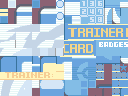
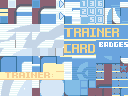
Move Trainer Card barcode

diff --git a/src/trainer_card.c b/src/trainer_card.c
@@ -1229,9 +1229,9 @@ static void PrintIdOnCard(void)
     }
     else if (sData->cardLayout == CARD_LAYOUT_HELIODOR)
     {
-		y = 12;
-        font = 0;
-        x = GetStringCenterAlignXOffset(font, buffer, 80) + 133;
+		y = 9;
+        font = 1;
+        x = GetStringCenterAlignXOffset(font, buffer, 80) + 130;
     }
 	if (sData->cardLayout == CARD_LAYOUT_HELIODOR && (sData->trainerCard.stars + sData->trainerCard.extraStars) > 4)
 		AddTextPrinterParameterized3(1, font, x, y, sTrainerCard5StarIDColors, TEXT_SPEED_FF, buffer);
@@ -1544,53 +1544,53 @@ static void PrintProfilePhraseOnCard(void)
     }
 }
 
-static const u8 sText_BarcodeStart[] = _("{JP_START}");
-static const u8 sText_BarcodeEnd[] = _("{JP_END}");
-static const u8 sText_Barcode0[] = _("{JP_0}");
-static const u8 sText_Barcode1[] = _("{JP_1}");
-static const u8 sText_Barcode2[] = _("{JP_2}");
-static const u8 sText_Barcode3[] = _("{JP_3}");
-static const u8 sText_Barcode4[] = _("{JP_4}");
-static const u8 sText_Barcode5[] = _("{JP_5}");
-static const u8 sText_Barcode6[] = _("{JP_6}");
-static const u8 sText_Barcode7[] = _("{JP_7}");
-static const u8 sText_Barcode8[] = _("{JP_8}");
-static const u8 sText_Barcode9[] = _("{JP_9}");
-static const u8 sText_BarcodeDash[] = _("{JP_DASH}");
-static const u8 sText_BarcodeCC1[] = _("{JP_CC1}");
-static const u8 sText_BarcodeCC2[] = _("{JP_CC2}");
-static const u8 sText_BarcodeCC3[] = _("{JP_CC3}");
+static const u8 sText_BarcodeStart[] = _("{JPV_START}\n");
+static const u8 sText_BarcodeEnd[] = _("{JPV_END}\n");
+static const u8 sText_Barcode0[] = _("{JPV_0}\n");
+static const u8 sText_Barcode1[] = _("{JPV_1}\n");
+static const u8 sText_Barcode2[] = _("{JPV_2}\n");
+static const u8 sText_Barcode3[] = _("{JPV_3}\n");
+static const u8 sText_Barcode4[] = _("{JPV_4}\n");
+static const u8 sText_Barcode5[] = _("{JPV_5}\n");
+static const u8 sText_Barcode6[] = _("{JPV_6}\n");
+static const u8 sText_Barcode7[] = _("{JPV_7}\n");
+static const u8 sText_Barcode8[] = _("{JPV_8}\n");
+static const u8 sText_Barcode9[] = _("{JPV_9}\n");
+static const u8 sText_BarcodeDash[] = _("{JPV_DASH}\n");
+static const u8 sText_BarcodeCC1[] = _("{JPV_CC1}\n");
+static const u8 sText_BarcodeCC2[] = _("{JPV_CC2}\n");
+static const u8 sText_BarcodeCC3[] = _("{JPV_CC3}\n");
 
-static const u8 sText_BarcodeA[] = _("{JP_CC1}{JP_0}");
-static const u8 sText_BarcodeB[] = _("{JP_CC1}{JP_1}");
-static const u8 sText_BarcodeC[] = _("{JP_CC1}{JP_2}");
-static const u8 sText_BarcodeD[] = _("{JP_CC1}{JP_3}");
-static const u8 sText_BarcodeE[] = _("{JP_CC1}{JP_4}");
-static const u8 sText_BarcodeF[] = _("{JP_CC1}{JP_5}");
-static const u8 sText_BarcodeG[] = _("{JP_CC1}{JP_6}");
-static const u8 sText_BarcodeH[] = _("{JP_CC1}{JP_7}");
-static const u8 sText_BarcodeI[] = _("{JP_CC1}{JP_8}");
-static const u8 sText_BarcodeJ[] = _("{JP_CC1}{JP_9}");
-static const u8 sText_BarcodeK[] = _("{JP_CC2}{JP_0}");
-static const u8 sText_BarcodeL[] = _("{JP_CC2}{JP_1}");
-static const u8 sText_BarcodeM[] = _("{JP_CC2}{JP_2}");
-static const u8 sText_BarcodeN[] = _("{JP_CC2}{JP_3}");
-static const u8 sText_BarcodeO[] = _("{JP_CC2}{JP_4}");
-static const u8 sText_BarcodeP[] = _("{JP_CC2}{JP_5}");
-static const u8 sText_BarcodeQ[] = _("{JP_CC2}{JP_6}");
-static const u8 sText_BarcodeR[] = _("{JP_CC2}{JP_7}");
-static const u8 sText_BarcodeS[] = _("{JP_CC2}{JP_8}");
-static const u8 sText_BarcodeT[] = _("{JP_CC2}{JP_9}");
-static const u8 sText_BarcodeU[] = _("{JP_CC3}{JP_0}");
-static const u8 sText_BarcodeV[] = _("{JP_CC3}{JP_1}");
-static const u8 sText_BarcodeW[] = _("{JP_CC3}{JP_2}");
-static const u8 sText_BarcodeX[] = _("{JP_CC3}{JP_3}");
-static const u8 sText_BarcodeY[] = _("{JP_CC3}{JP_4}");
-static const u8 sText_BarcodeZ[] = _("{JP_CC3}{JP_5}");
+static const u8 sText_BarcodeA[] = _("{JPV_CC1}\n{JPV_0}\n");
+static const u8 sText_BarcodeB[] = _("{JPV_CC1}\n{JPV_1}\n");
+static const u8 sText_BarcodeC[] = _("{JPV_CC1}\n{JPV_2}\n");
+static const u8 sText_BarcodeD[] = _("{JPV_CC1}\n{JPV_3}\n");
+static const u8 sText_BarcodeE[] = _("{JPV_CC1}\n{JPV_4}\n");
+static const u8 sText_BarcodeF[] = _("{JPV_CC1}\n{JPV_5}\n");
+static const u8 sText_BarcodeG[] = _("{JPV_CC1}\n{JPV_6}\n");
+static const u8 sText_BarcodeH[] = _("{JPV_CC1}\n{JPV_7}\n");
+static const u8 sText_BarcodeI[] = _("{JPV_CC1}\n{JPV_8}\n");
+static const u8 sText_BarcodeJ[] = _("{JPV_CC1}\n{JPV_9}\n");
+static const u8 sText_BarcodeK[] = _("{JPV_CC2}\n{JPV_0}\n");
+static const u8 sText_BarcodeL[] = _("{JPV_CC2}\n{JPV_1}\n");
+static const u8 sText_BarcodeM[] = _("{JPV_CC2}\n{JPV_2}\n");
+static const u8 sText_BarcodeN[] = _("{JPV_CC2}\n{JPV_3}\n");
+static const u8 sText_BarcodeO[] = _("{JPV_CC2}\n{JPV_4}\n");
+static const u8 sText_BarcodeP[] = _("{JPV_CC2}\n{JPV_5}\n");
+static const u8 sText_BarcodeQ[] = _("{JPV_CC2}\n{JPV_6}\n");
+static const u8 sText_BarcodeR[] = _("{JPV_CC2}\n{JPV_7}\n");
+static const u8 sText_BarcodeS[] = _("{JPV_CC2}\n{JPV_8}\n");
+static const u8 sText_BarcodeT[] = _("{JPV_CC2}\n{JPV_9}\n");
+static const u8 sText_BarcodeU[] = _("{JPV_CC3}\n{JPV_0}\n");
+static const u8 sText_BarcodeV[] = _("{JPV_CC3}\n{JPV_1}\n");
+static const u8 sText_BarcodeW[] = _("{JPV_CC3}\n{JPV_2}\n");
+static const u8 sText_BarcodeX[] = _("{JPV_CC3}\n{JPV_3}\n");
+static const u8 sText_BarcodeY[] = _("{JPV_CC3}\n{JPV_4}\n");
+static const u8 sText_BarcodeZ[] = _("{JPV_CC3}\n{JPV_5}\n");
 
 static void PrintBarcodeOnCard(void)
 {
-	u8 buffer[32];
+	u8 buffer[64];
 	u8* barcode;
 	u32 i;
 
@@ -1608,7 +1608,10 @@ static void PrintBarcodeOnCard(void)
 
 	StringAppend(barcode, sText_BarcodeEnd);
 
-	AddTextPrinterParameterized3(1, 0, 93, 2, sTrainerCardTextColors, TEXT_SPEED_FF, buffer);
+	if ((sData->trainerCard.stars + sData->trainerCard.extraStars) > 4)
+		AddTextPrinterParameterized4(1, 0, 1, 2, 0, -4, sTrainerCard5StarNameColors, TEXT_SPEED_FF, buffer);
+	else
+		AddTextPrinterParameterized4(1, 0, 1, 2, 0, -4, sTrainerCardTextColors, TEXT_SPEED_FF, buffer);
 }
 
 static const u8 *ConvertDigitToBarcodeSymbol(u8 digit)
